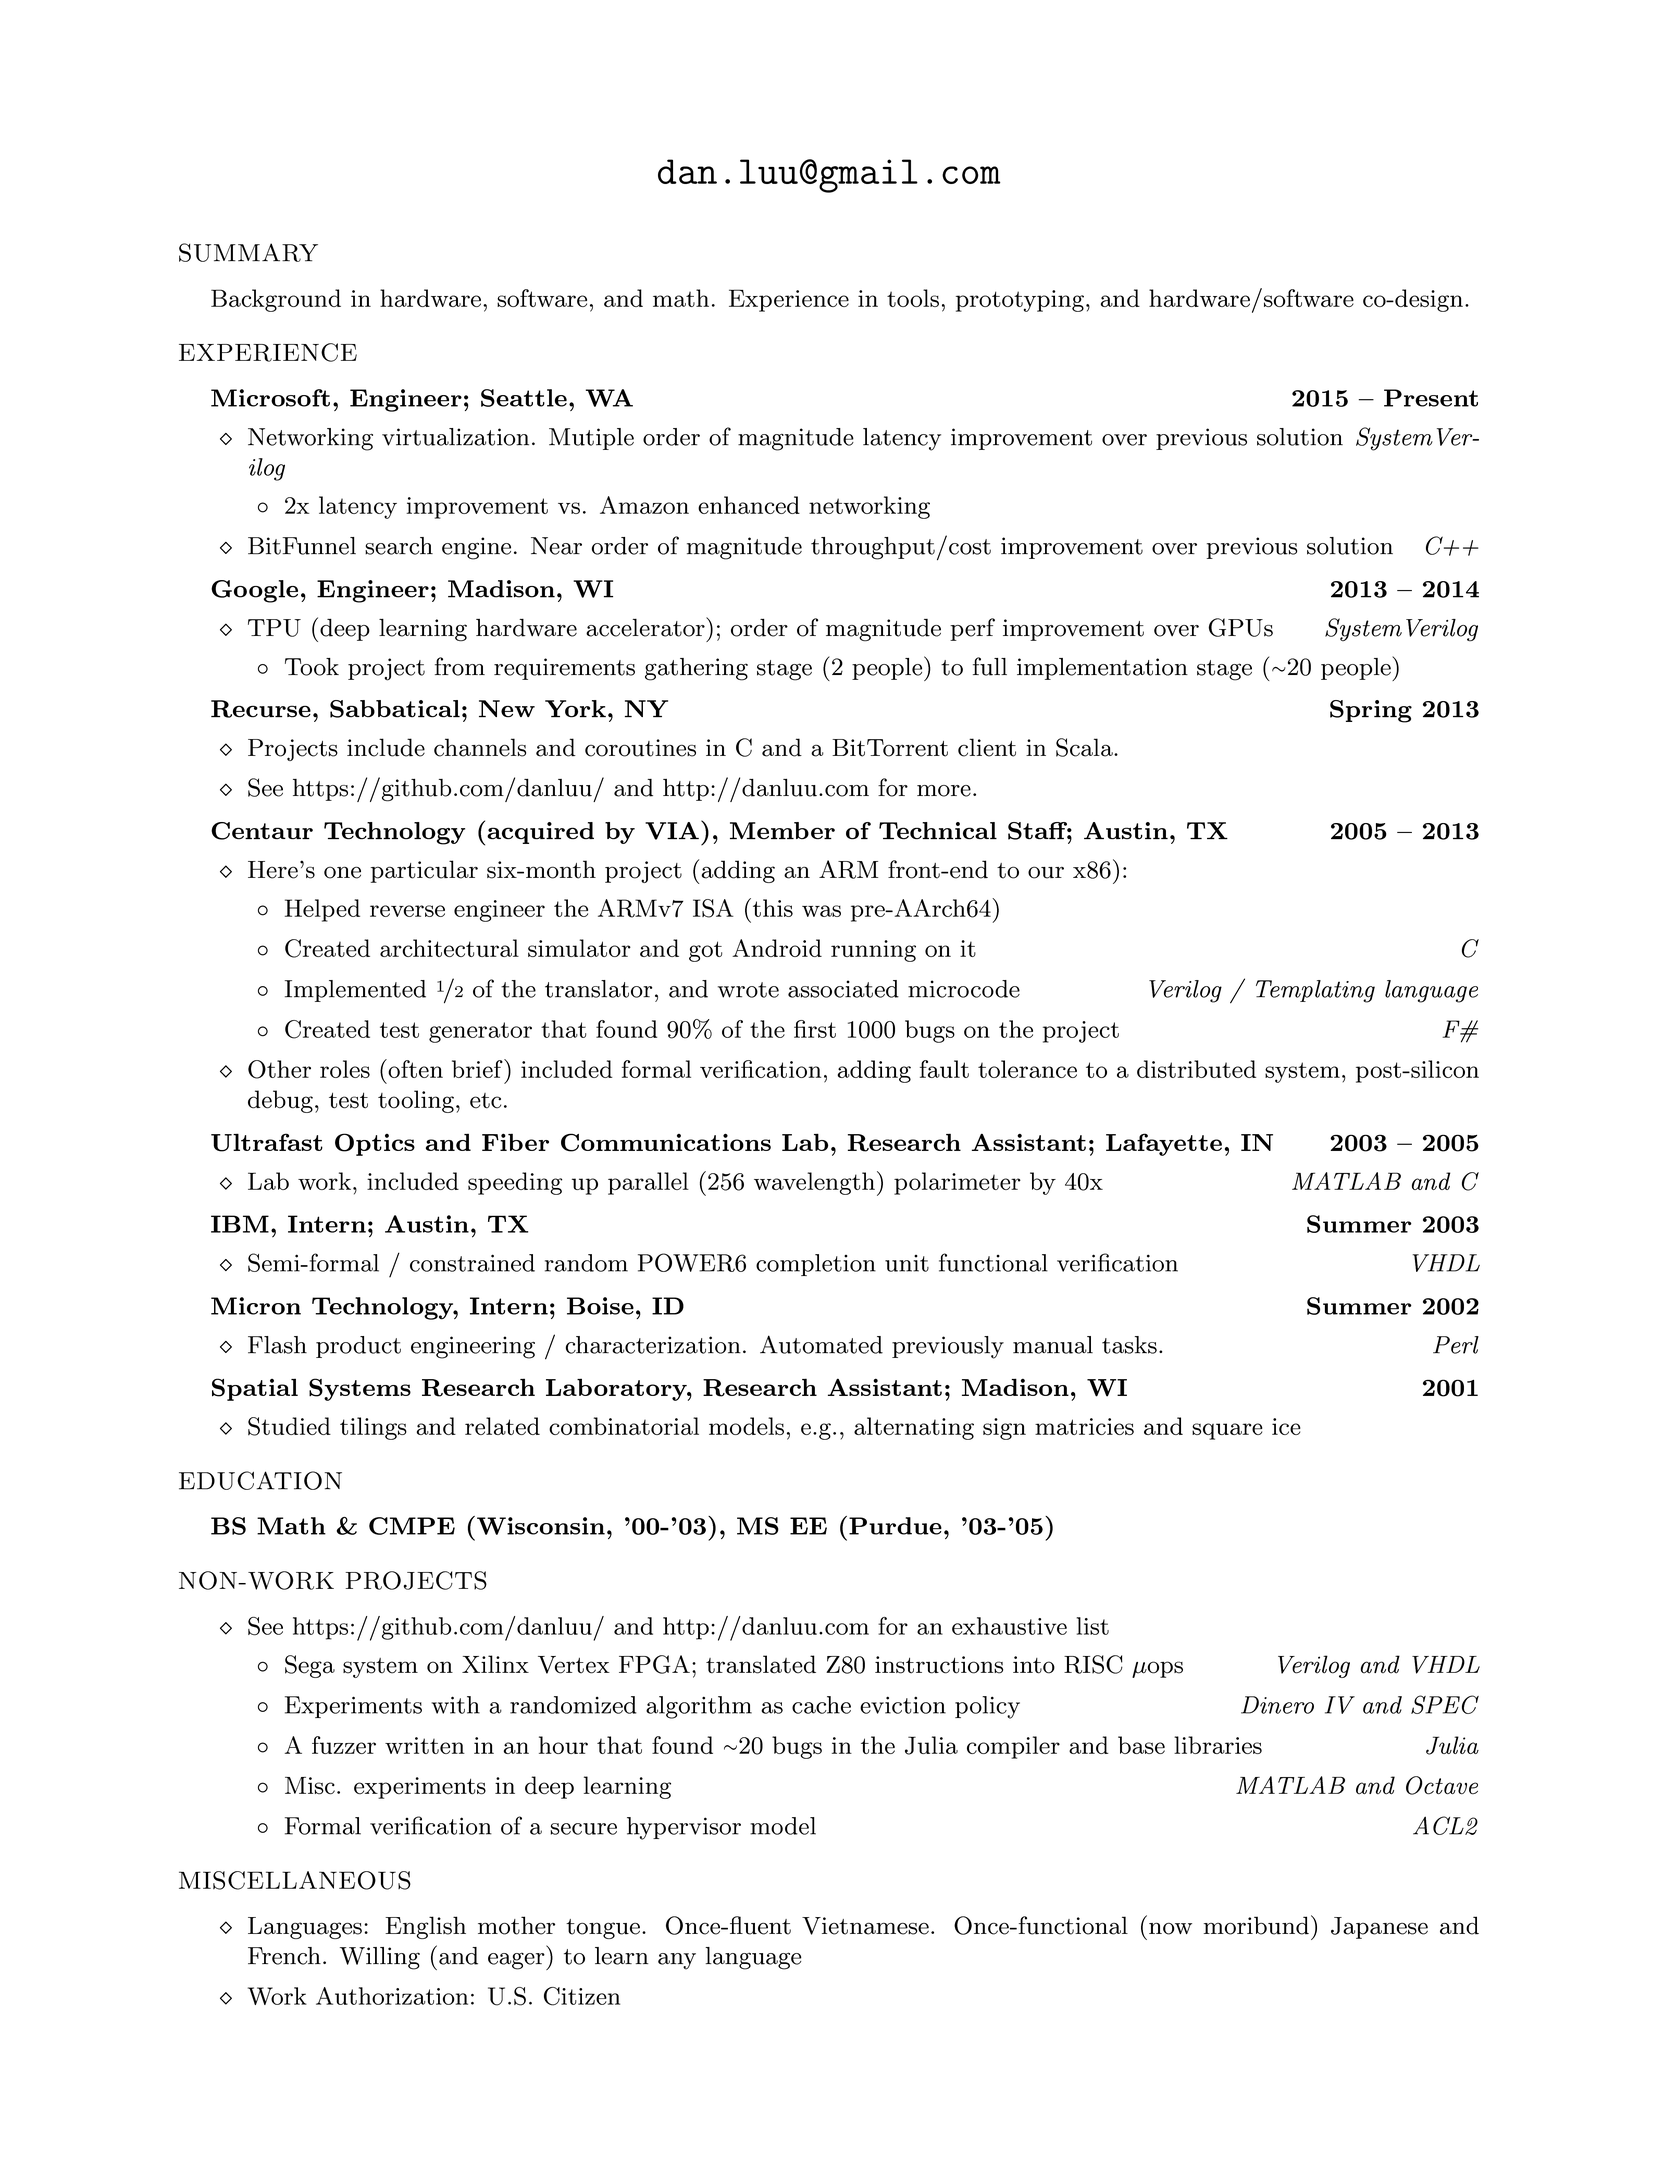
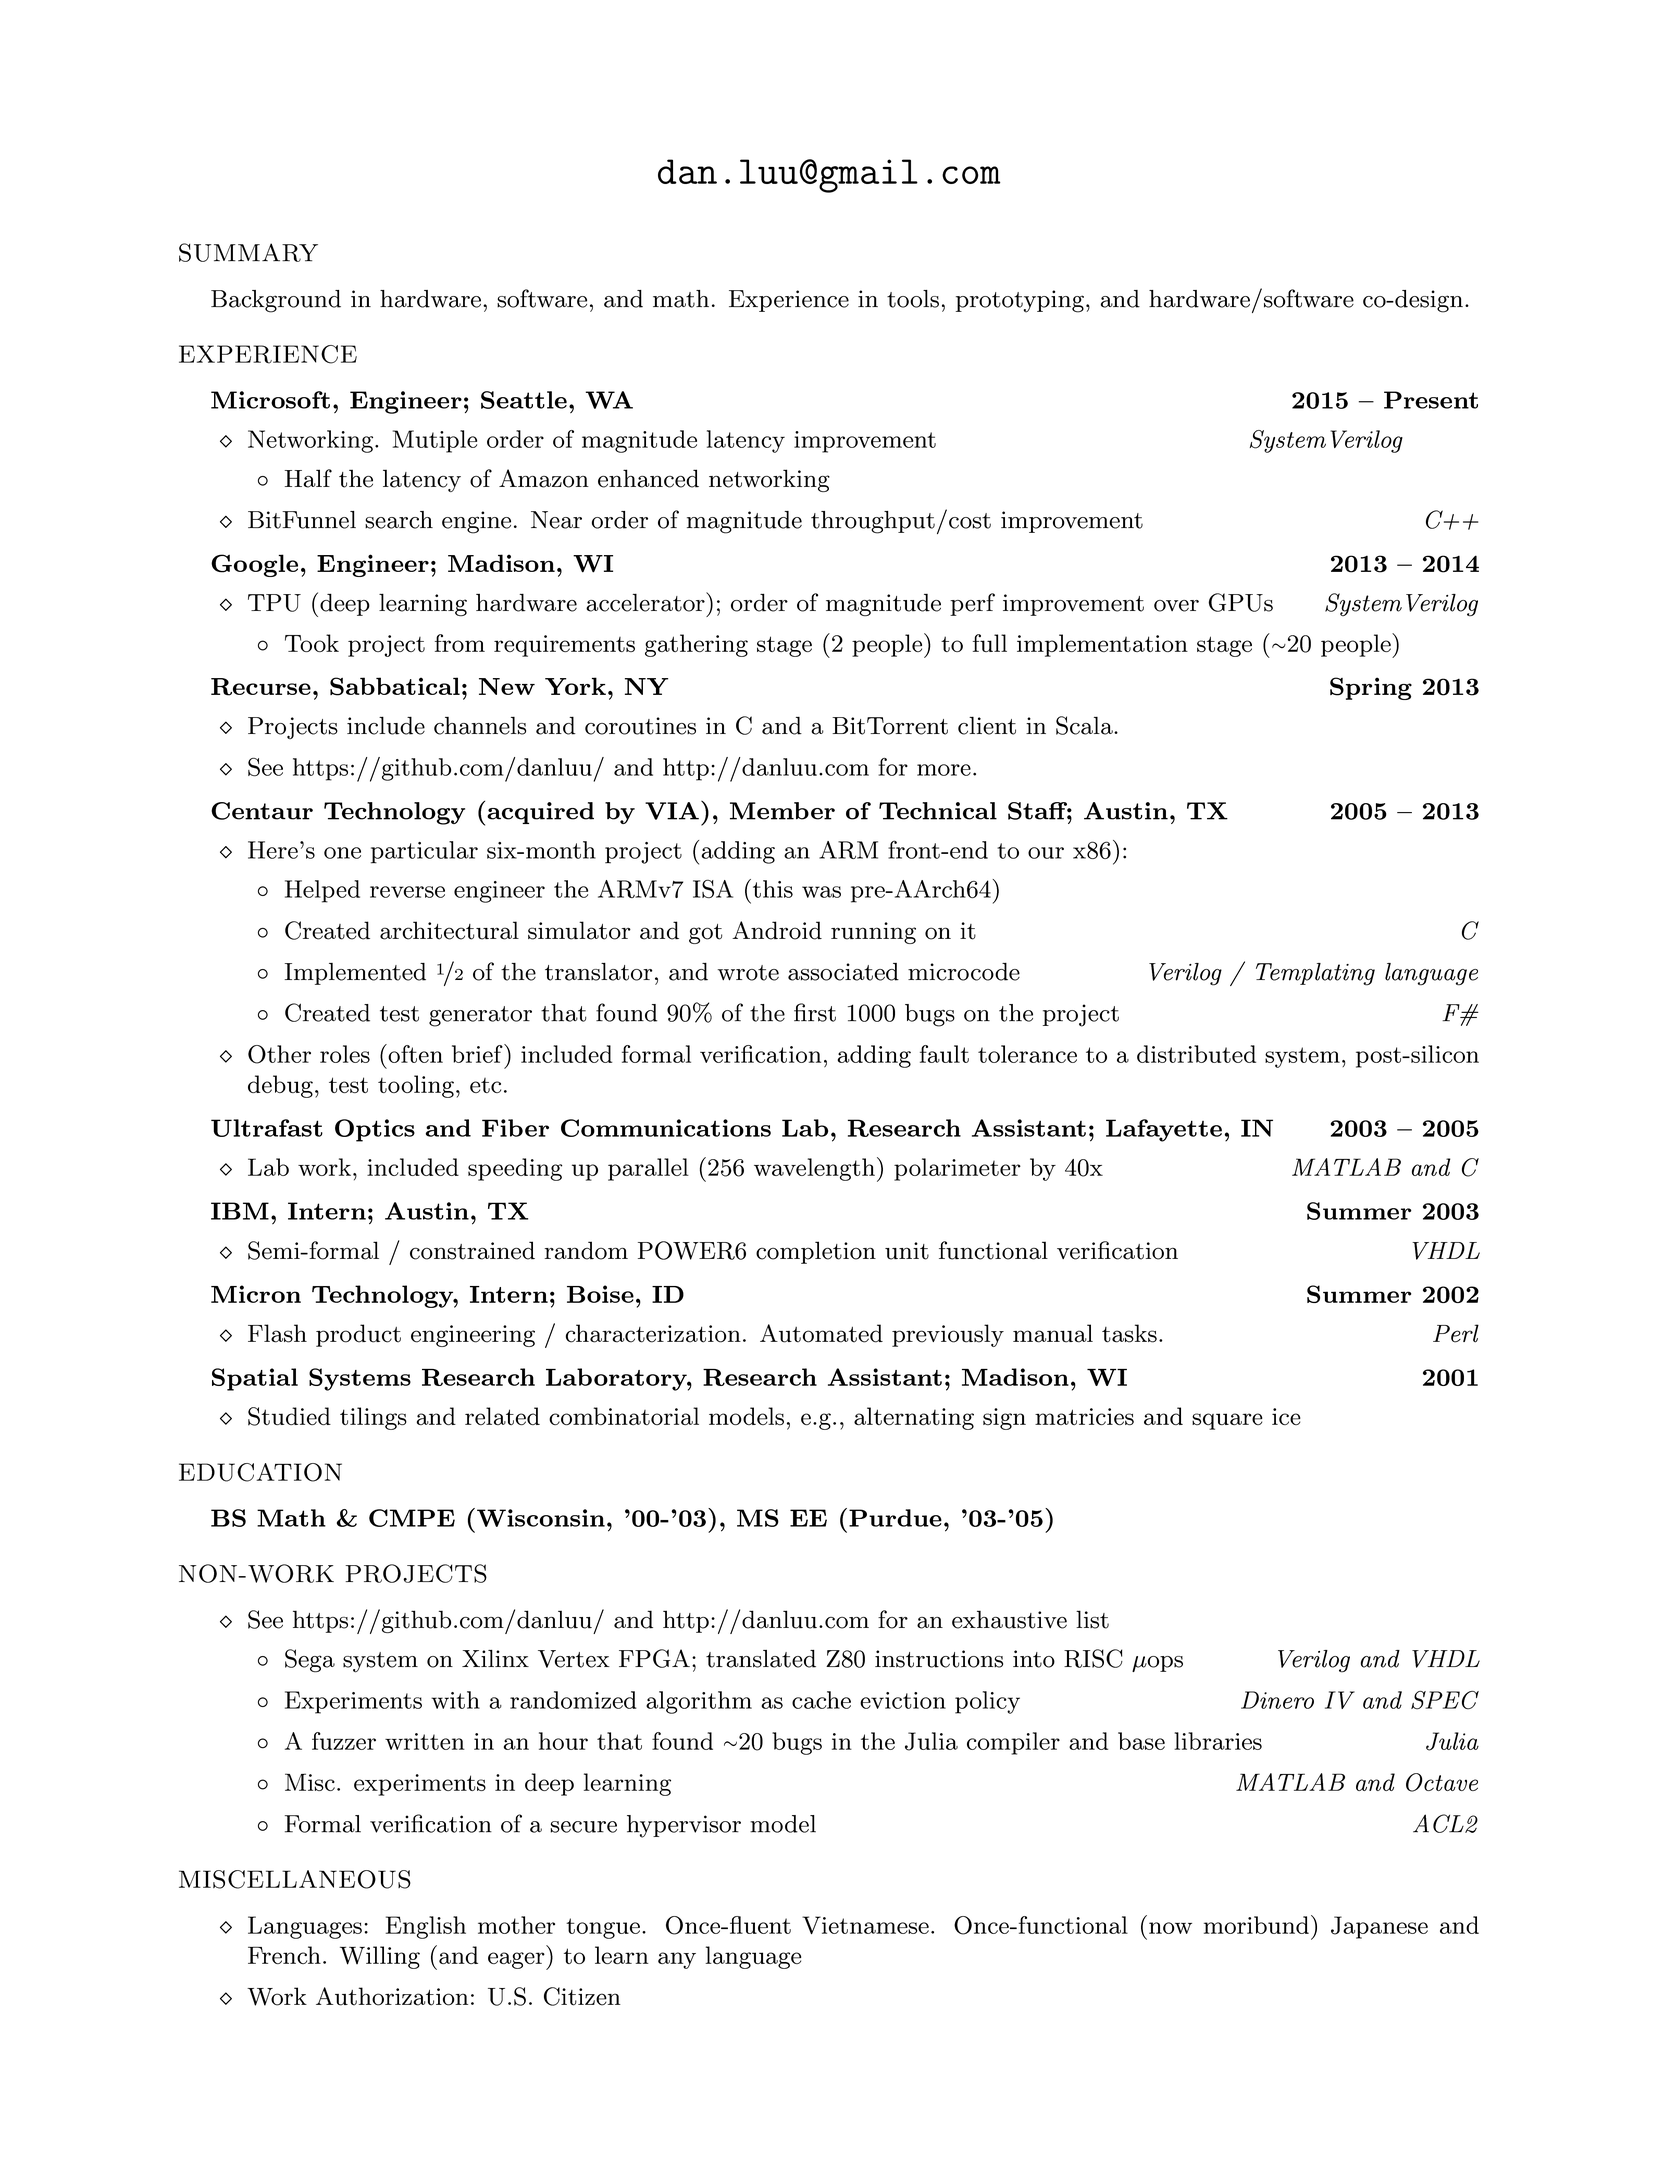
Make long lines shorter.

diff --git a/resume.tex b/resume.tex
@@ -43,11 +43,11 @@
 \item \begin{tabular1bold} Microsoft, Engineer; Seattle, WA & 2015 -- Present \end{tabular1bold}
 
   \begin{list2}
-  \item Networking virtualization. Mutiple order of magnitude latency improvement over previous solution \hfill \emph{SystemVerilog}
+  \item Networking. Mutiple order of magnitude latency improvement \hfill \emph{SystemVerilog}
     \begin{list3}
-      \item 2x latency improvement vs. Amazon enhanced networking
+      \item Half the latency of Amazon enhanced networking
     \end{list3}
-  \item BitFunnel search engine. Near order of magnitude throughput/cost improvement over previous solution \hfill \emph{C++}
+  \item BitFunnel search engine. Near order of magnitude throughput/cost improvement \hfill \emph{C++}
   \end{list2}
 
 \item \begin{tabular1bold} Google, Engineer; Madison, WI & 2013 -- 2014 \end{tabular1bold}
